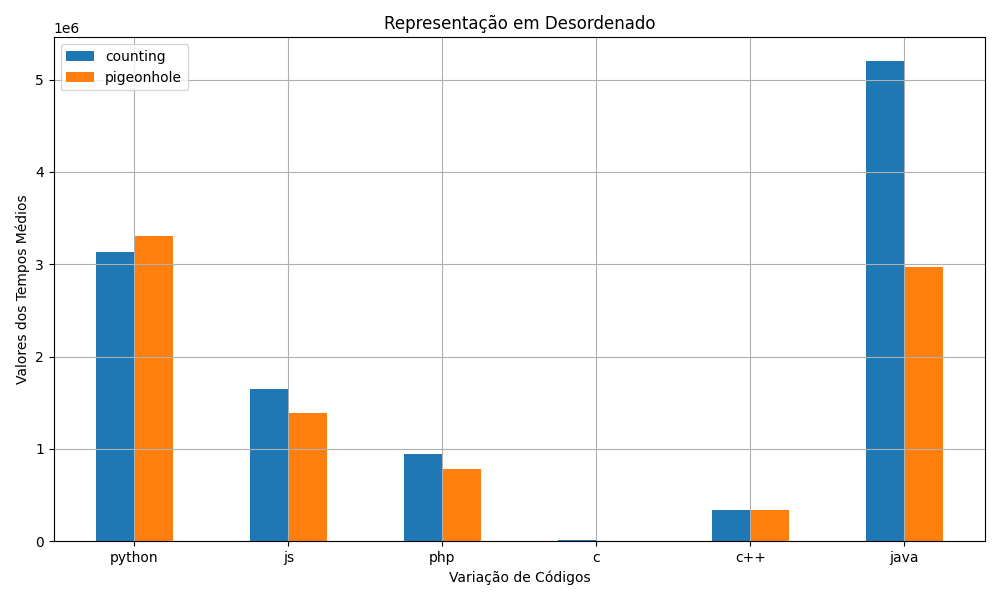
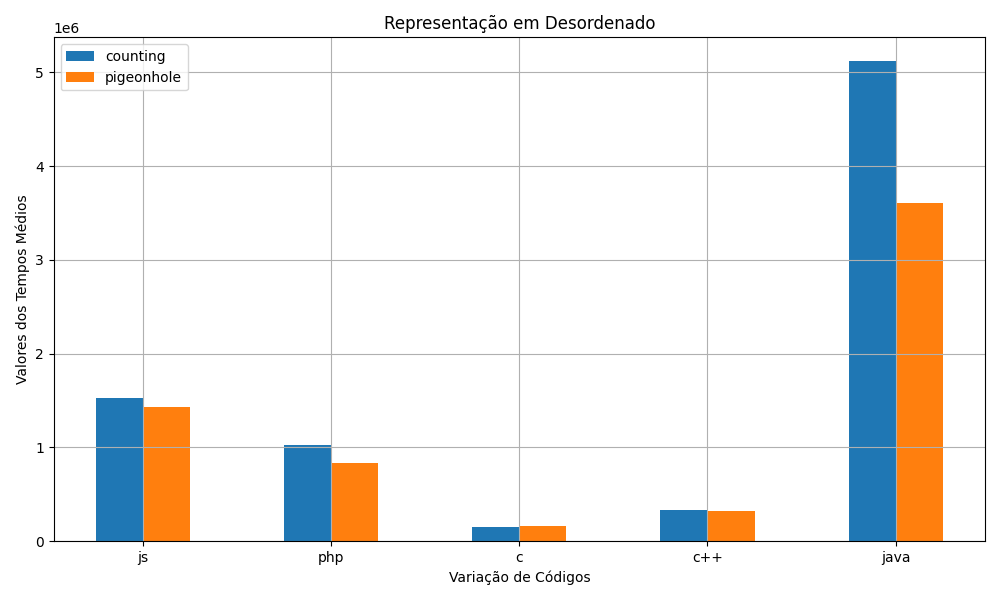
Começo dos Graficos

Changed region(s): [[0.031, 0.09, 0.961, 0.96], [0.651, 0.84, 0.806, 0.93], [0.031, 0.12, 0.062, 0.15]]

diff --git a/src/grafico.py b/src/grafico.py
@@ -3,13 +3,15 @@ import matplotlib.pyplot as plt
 import numpy as np
 import os
 
-# Verifique se o diretório de destino existe, caso contrário, crie-o
-if not os.path.exists('dataget/img'):
-    os.makedirs('dataget/img')
+# Verificar se o diretório de destino existe, caso contrário, crie-o
+save_path = 'dataget/img'
+if not os.path.exists(save_path):
+    os.makedirs(save_path)
 
-def graficos(data, title, save_path):
-    sort = ['counting','pigeonhole']
+def graficoSort(data, title, save_path):
+    sort = ['counting', 'pigeonhole']
 
+    plt.clf()  # Limpa a figura atual
     plt.figure(figsize=(10, 6))
 
     # Determinando a largura das barras e a quantidade de grupos
@@ -39,21 +41,14 @@ def graficos(data, title, save_path):
 
     # Salvando o gráfico
     save_file = os.path.join(save_path, f'{title.lower().replace(" ", "_")}_grafico.png')
-    plt.savefig(save_file)
-
-    # Exibindo o gráfico
-    plt.show()
+    plt.savefig(save_file, format='png')
+    plt.close()  # Fechar a figura após salvar
 
 
-# Read the CSV file (substitua pelo caminho do seu arquivo CSV)
-dados = pd.read_csv("dataget/output.csv")
-
-# Print the first few rows to understand the structure
-print(dados.head())
-
-# Caminho para salvar os gráficos
-save_path = 'dataget/img'
+# Leitura do arquivo CSV (substitua pelo caminho do seu arquivo CSV)
+dados = pd.read_csv("dataget/output.csv",index_col=0)
 
 # Plotando gráficos para desordenado e ordenado
-graficos(dados.iloc[:-2], 'Desordenado', save_path)
-graficos(dados.iloc[2:], 'Ordenado', save_path)
+graficoSort(dados.iloc[:-2], 'Desordenado', save_path)
+graficoSort(dados.iloc[2:], 'Ordenado', save_path)
+

diff --git a/README.md b/README.md
@@ -1,5 +1,19 @@
-python,js,php,c,c++,java
-,,,1837500,,
-,,,1132400,,
-,,,1606600,,
-,,,1151600,,
+linha1
+linha2
+linha3
+linha4 
+
+
+desordenado = linha1 e linha2
+ordenado = linha3 e linha4
+
+
+                  ____      
+ ____            |    |     
+|    |____       |    |
+|    |    |      |    |
+|    |    |      |    |
+| l1 | l2 |      |l3  |____
+|    |    |      |    | l4 |
+´´´´´´´´´´´´´´´´´´´´´´´´´´´´
+ desordenado      ordenado
